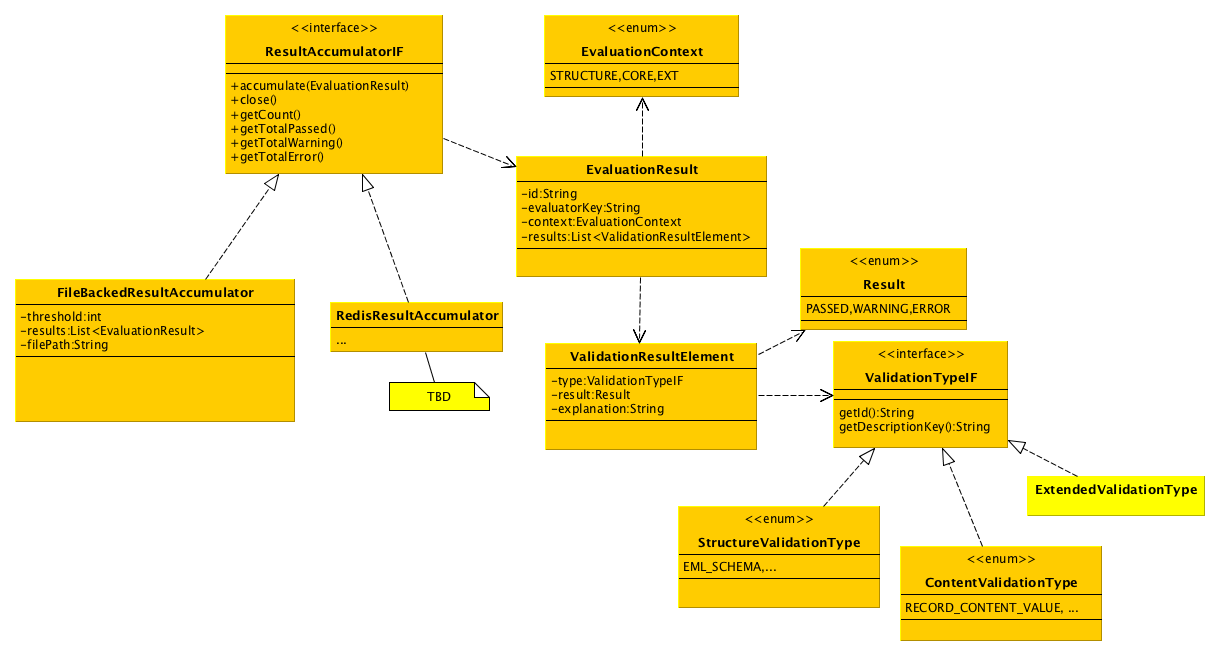
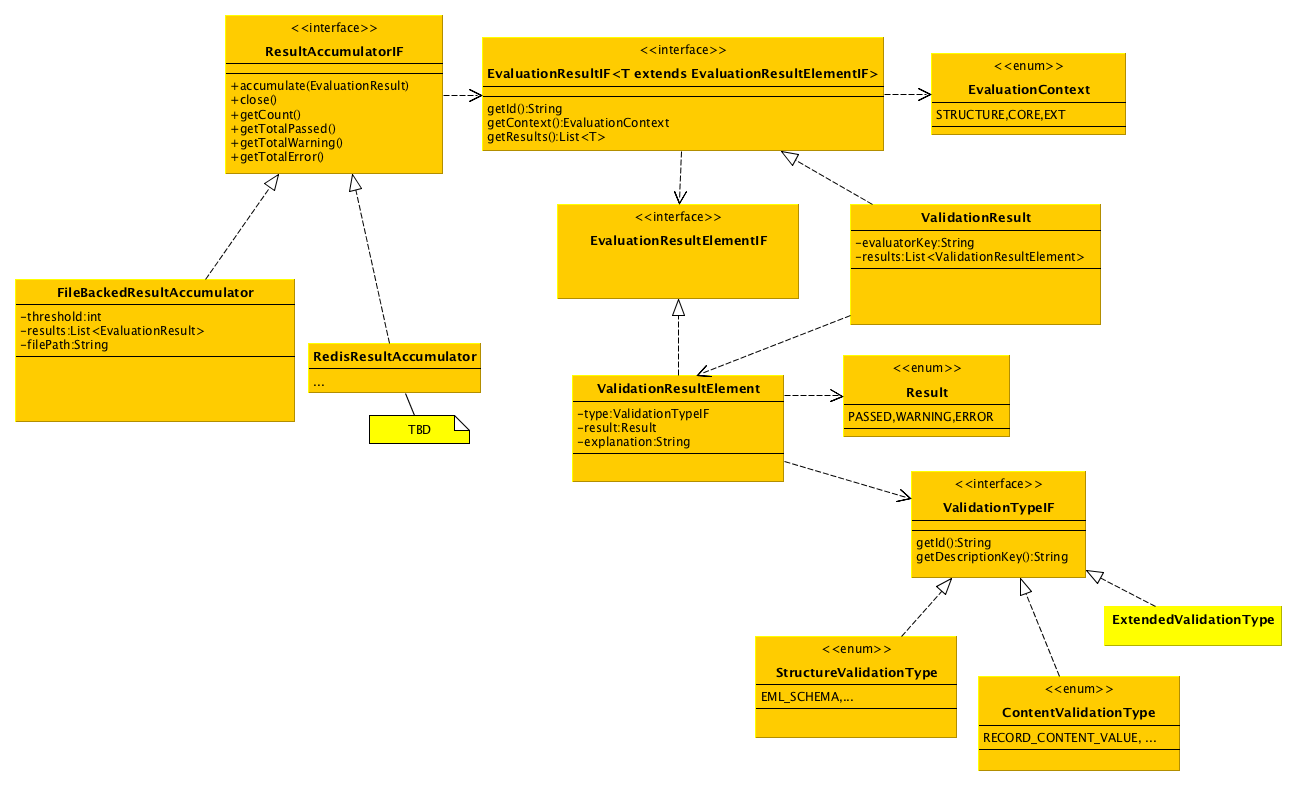
move ValidationResult, ValidationResultElement

Changed region(s): [[0.0, 0.0, 0.9967, 1.0]]

diff --git a/dwca-validator-lib/src/main/java/org/gbif/dwc/validator/result/impl/validation/ValidationResult.java b/dwca-validator-lib/src/main/java/org/gbif/dwc/validator/result/impl/validation/ValidationResult.java
@@ -1,4 +1,7 @@
-package org.gbif.dwc.validator.result;
+package org.gbif.dwc.validator.result.impl.validation;
+
+import org.gbif.dwc.validator.result.EvaluationContext;
+import org.gbif.dwc.validator.result.EvaluationResultIF;
 
 import java.util.Arrays;
 import java.util.List;
@@ -12,7 +15,7 @@ import org.apache.commons.lang3.builder.ToStringBuilder;
  * 
  * @author cgendreau
  */
-public class EvaluationResult implements EvaluationResultIF<ValidationResultElement> {
+public class ValidationResult implements EvaluationResultIF<ValidationResultElement> {
 
   private final String id;
   private final String evaluatorKey;
@@ -25,7 +28,7 @@ public class EvaluationResult implements EvaluationResultIF<ValidationResultElem
    * @param context
    * @param results
    */
-  public EvaluationResult(String id, String evaluatorKey, EvaluationContext context,
+  public ValidationResult(String id, String evaluatorKey, EvaluationContext context,
     List<ValidationResultElement> results) {
     this.id = id;
     this.evaluatorKey = evaluatorKey;
@@ -47,7 +50,7 @@ public class EvaluationResult implements EvaluationResultIF<ValidationResultElem
    * @param context
    * @param result
    */
-  public EvaluationResult(String id, String evaluatorKey, EvaluationContext context, ValidationResultElement result) {
+  public ValidationResult(String id, String evaluatorKey, EvaluationContext context, ValidationResultElement result) {
     this(id, evaluatorKey, context, Arrays.asList(result));
   }
 

diff --git a/dwca-validator-lib/src/main/java/org/gbif/dwc/validator/evaluator/impl/DecimalLatLngEvaluator.java b/dwca-validator-lib/src/main/java/org/gbif/dwc/validator/evaluator/impl/DecimalLatLngEvaluator.java
@@ -6,10 +6,10 @@ import org.gbif.dwc.validator.config.ArchiveValidatorConfig;
 import org.gbif.dwc.validator.evaluator.RecordEvaluatorIF;
 import org.gbif.dwc.validator.evaluator.annotation.RecordEvaluator;
 import org.gbif.dwc.validator.result.EvaluationContext;
-import org.gbif.dwc.validator.result.ValidationResult;
 import org.gbif.dwc.validator.result.Result;
 import org.gbif.dwc.validator.result.ResultAccumulatorIF;
-import org.gbif.dwc.validator.result.ValidationResultElement;
+import org.gbif.dwc.validator.result.impl.validation.ValidationResult;
+import org.gbif.dwc.validator.result.impl.validation.ValidationResultElement;
 import org.gbif.dwc.validator.result.type.ContentValidationType;
 import org.gbif.dwc.validator.rule.value.NumericalValueEvaluationRule;
 

diff --git a/dwca-validator-lib/src/main/java/org/gbif/dwc/validator/evaluator/impl/ValueEvaluator.java b/dwca-validator-lib/src/main/java/org/gbif/dwc/validator/evaluator/impl/ValueEvaluator.java
@@ -5,9 +5,9 @@ import org.gbif.dwc.terms.ConceptTerm;
 import org.gbif.dwc.validator.evaluator.RecordEvaluatorIF;
 import org.gbif.dwc.validator.evaluator.annotation.RecordEvaluator;
 import org.gbif.dwc.validator.result.EvaluationContext;
-import org.gbif.dwc.validator.result.ValidationResult;
 import org.gbif.dwc.validator.result.ResultAccumulatorIF;
-import org.gbif.dwc.validator.result.ValidationResultElement;
+import org.gbif.dwc.validator.result.impl.validation.ValidationResult;
+import org.gbif.dwc.validator.result.impl.validation.ValidationResultElement;
 import org.gbif.dwc.validator.rule.EvaluationRuleIF;
 
 import java.util.ArrayList;

diff --git a/dwca-validator-lib/src/main/java/org/gbif/dwc/validator/evaluator/impl/ReferentialIntegrityEvaluator.java b/dwca-validator-lib/src/main/java/org/gbif/dwc/validator/evaluator/impl/ReferentialIntegrityEvaluator.java
@@ -8,8 +8,8 @@ import org.gbif.dwc.validator.evaluator.annotation.RecordEvaluator;
 import org.gbif.dwc.validator.result.Result;
 import org.gbif.dwc.validator.result.ResultAccumulatorIF;
 import org.gbif.dwc.validator.result.EvaluationContext;
-import org.gbif.dwc.validator.result.ValidationResult;
-import org.gbif.dwc.validator.result.ValidationResultElement;
+import org.gbif.dwc.validator.result.impl.validation.ValidationResult;
+import org.gbif.dwc.validator.result.impl.validation.ValidationResultElement;
 import org.gbif.dwc.validator.result.type.ContentValidationType;
 import org.gbif.util.ToBeMovedFileUtils;
 

diff --git a/dwca-validator-lib/src/main/java/org/gbif/dwc/validator/evaluator/impl/UniquenessEvaluator.java b/dwca-validator-lib/src/main/java/org/gbif/dwc/validator/evaluator/impl/UniquenessEvaluator.java
@@ -8,8 +8,8 @@ import org.gbif.dwc.validator.evaluator.annotation.RecordEvaluator;
 import org.gbif.dwc.validator.result.Result;
 import org.gbif.dwc.validator.result.ResultAccumulatorIF;
 import org.gbif.dwc.validator.result.EvaluationContext;
-import org.gbif.dwc.validator.result.ValidationResult;
-import org.gbif.dwc.validator.result.ValidationResultElement;
+import org.gbif.dwc.validator.result.impl.validation.ValidationResult;
+import org.gbif.dwc.validator.result.impl.validation.ValidationResultElement;
 import org.gbif.dwc.validator.result.type.ContentValidationType;
 
 import java.io.BufferedReader;

diff --git a/dwca-validator-lib/src/main/java/org/gbif/dwc/validator/rule/vocabulary/ControlledVocabularyEvaluationRule.java b/dwca-validator-lib/src/main/java/org/gbif/dwc/validator/rule/vocabulary/ControlledVocabularyEvaluationRule.java
@@ -3,7 +3,7 @@ package org.gbif.dwc.validator.rule.vocabulary;
 import org.gbif.dwc.terms.ConceptTerm;
 import org.gbif.dwc.validator.config.ArchiveValidatorConfig;
 import org.gbif.dwc.validator.result.Result;
-import org.gbif.dwc.validator.result.ValidationResultElement;
+import org.gbif.dwc.validator.result.impl.validation.ValidationResultElement;
 import org.gbif.dwc.validator.result.type.ContentValidationType;
 import org.gbif.dwc.validator.rule.EvaluationRuleIF;
 

diff --git a/dwca-validator-lib/src/main/java/org/gbif/dwc/validator/cli/CliReportPrinter.java b/dwca-validator-lib/src/main/java/org/gbif/dwc/validator/cli/CliReportPrinter.java
@@ -2,8 +2,8 @@ package org.gbif.dwc.validator.cli;
 
 import org.gbif.dwc.validator.result.EvaluationResultElementIF;
 import org.gbif.dwc.validator.result.EvaluationResultIF;
-import org.gbif.dwc.validator.result.ValidationResultElement;
 import org.gbif.dwc.validator.result.impl.InMemoryResultAccumulator;
+import org.gbif.dwc.validator.result.impl.validation.ValidationResultElement;
 
 /**
  * Validation results report printer for command line usage.

diff --git a/dwca-validator-lib/src/test/java/org/gbif/dwc/validator/result/ResultAccumulatorMultiThreadTest.java b/dwca-validator-lib/src/test/java/org/gbif/dwc/validator/result/ResultAccumulatorMultiThreadTest.java
@@ -3,6 +3,8 @@ package org.gbif.dwc.validator.result;
 import org.gbif.dwc.validator.mock.MockDataGenerator;
 import org.gbif.dwc.validator.result.impl.FileWriterResultAccumulator;
 import org.gbif.dwc.validator.result.impl.ThresholdResultAccumulator;
+import org.gbif.dwc.validator.result.impl.validation.ValidationResult;
+import org.gbif.dwc.validator.result.impl.validation.ValidationResultElement;
 
 import java.io.File;
 import java.io.IOException;

diff --git a/dwca-validator-lib/src/test/java/org/gbif/dwc/validator/result/ResultAccumulatorTest.java b/dwca-validator-lib/src/test/java/org/gbif/dwc/validator/result/ResultAccumulatorTest.java
@@ -3,6 +3,8 @@ package org.gbif.dwc.validator.result;
 import org.gbif.dwc.validator.mock.MockDataGenerator;
 import org.gbif.dwc.validator.result.impl.FileWriterResultAccumulator;
 import org.gbif.dwc.validator.result.impl.ThresholdResultAccumulator;
+import org.gbif.dwc.validator.result.impl.validation.ValidationResult;
+import org.gbif.dwc.validator.result.impl.validation.ValidationResultElement;
 
 import java.io.File;
 import java.io.IOException;

diff --git a/dwca-validator-lib/src/main/java/org/gbif/dwc/validator/rule/value/BlankValueEvaluationRule.java b/dwca-validator-lib/src/main/java/org/gbif/dwc/validator/rule/value/BlankValueEvaluationRule.java
@@ -2,7 +2,7 @@ package org.gbif.dwc.validator.rule.value;
 
 import org.gbif.dwc.validator.config.ArchiveValidatorConfig;
 import org.gbif.dwc.validator.result.Result;
-import org.gbif.dwc.validator.result.ValidationResultElement;
+import org.gbif.dwc.validator.result.impl.validation.ValidationResultElement;
 import org.gbif.dwc.validator.result.type.ContentValidationType;
 import org.gbif.dwc.validator.rule.EvaluationRuleIF;
 

diff --git a/dwca-validator-lib/src/main/java/org/gbif/dwc/validator/rule/value/InvalidCharacterEvaluationRule.java b/dwca-validator-lib/src/main/java/org/gbif/dwc/validator/rule/value/InvalidCharacterEvaluationRule.java
@@ -2,7 +2,7 @@ package org.gbif.dwc.validator.rule.value;
 
 import org.gbif.dwc.validator.config.ArchiveValidatorConfig;
 import org.gbif.dwc.validator.result.Result;
-import org.gbif.dwc.validator.result.ValidationResultElement;
+import org.gbif.dwc.validator.result.impl.validation.ValidationResultElement;
 import org.gbif.dwc.validator.result.type.ContentValidationType;
 import org.gbif.dwc.validator.rule.EvaluationRuleIF;
 

diff --git a/dwca-validator-lib/src/main/java/org/gbif/dwc/validator/rule/value/NumericalValueEvaluationRule.java b/dwca-validator-lib/src/main/java/org/gbif/dwc/validator/rule/value/NumericalValueEvaluationRule.java
@@ -2,7 +2,7 @@ package org.gbif.dwc.validator.rule.value;
 
 import org.gbif.dwc.validator.config.ArchiveValidatorConfig;
 import org.gbif.dwc.validator.result.Result;
-import org.gbif.dwc.validator.result.ValidationResultElement;
+import org.gbif.dwc.validator.result.impl.validation.ValidationResultElement;
 import org.gbif.dwc.validator.result.type.ContentValidationType;
 import org.gbif.dwc.validator.rule.EvaluationRuleIF;
 
